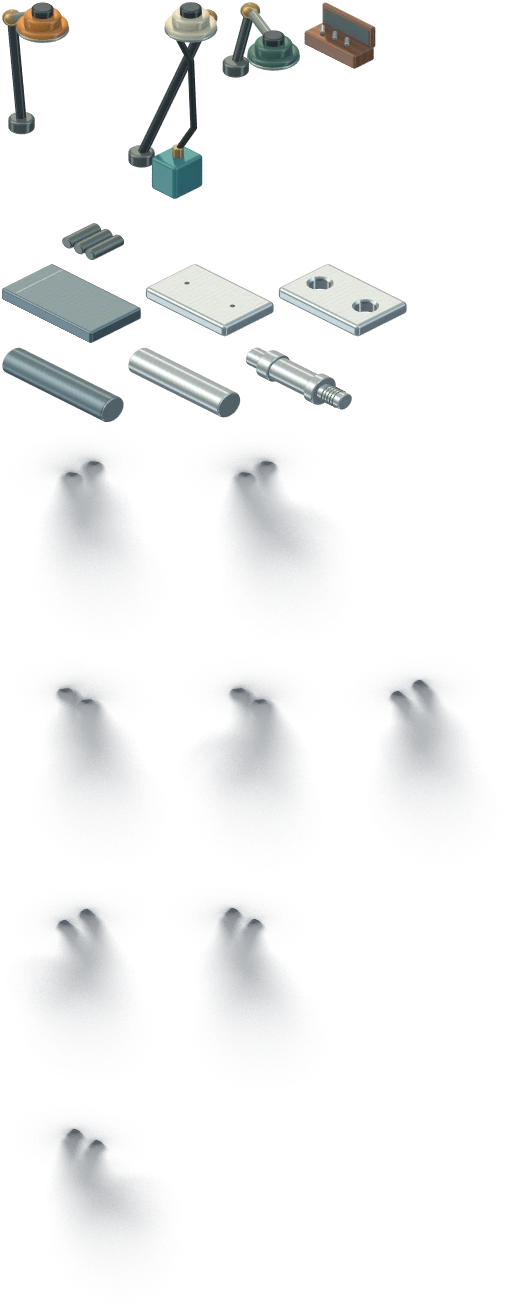
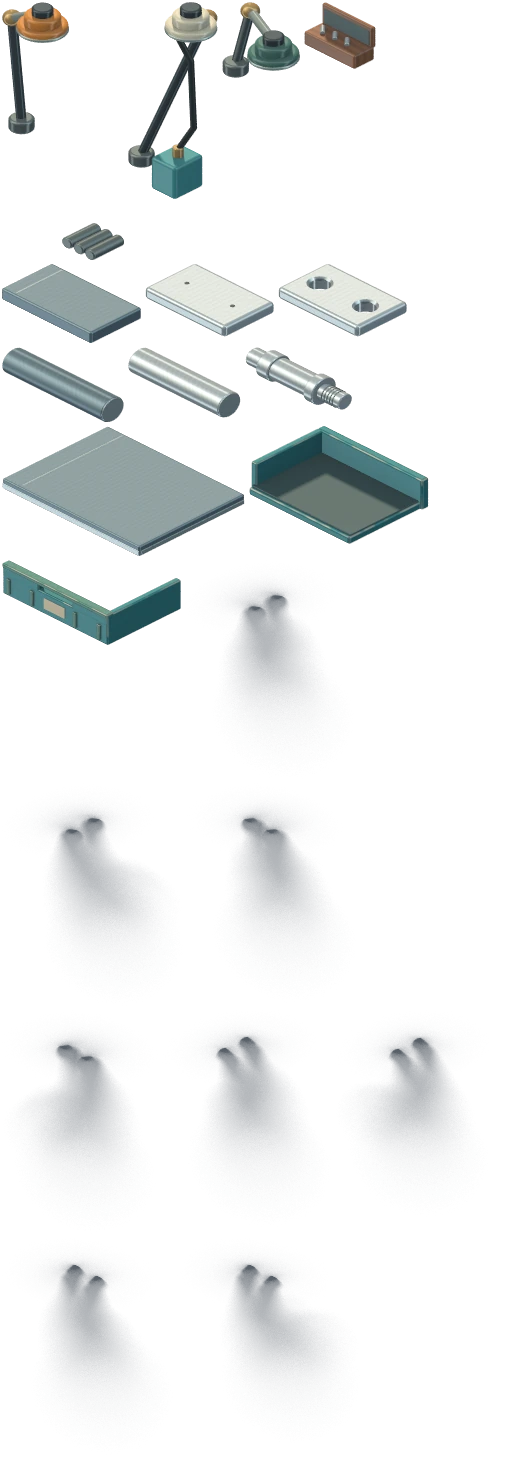
Match incoming mill scale and nest waiting parts inside modeled returnable totes

diff --git a/factory-prototype/art-source/station.py b/factory-prototype/art-source/station.py
@@ -36,6 +36,29 @@ def part(s,product,stage):
     for x in (.281,.291,.301,.311,.321):
         s.torus((x,.07,.046),(1,0,0),.026,.002,'iron')
 
+def containers(s,key):
+    b=s.box
+    if key=='raw-layer':
+        # Mill scale remains on the faces; sheared edges expose brighter metal.
+        b(.003,.004,0,.573,.441,.042,'millscale',.006)
+        b(.004,.440,.004,.57,.006,.019,'stock',.002)
+        b(.573,.008,.005,.005,.428,.017,'steel',.001)
+        b(.074,.016,.042,.003,.415,.001,'steel',0)
+        return
+    if key=='tote-back':
+        b(.008,.009,.008,.422,.315,.031,'press',.009)
+        b(.012,.015,.04,.414,.299,.005,'shade',.002)
+        b(0,0,.01,.44,.030,.125,'press',.008)
+        b(0,.025,.01,.022,.28,.124,'press',.005)
+        return
+    # Side mouths and front label hide just the lower portion of the contents.
+    b(.418,.024,.01,.022,.30,.123,'press',.006)
+    b(0,.307,.01,.44,.025,.089,'press',.006)
+    for x in (0,.290):b(x,.307,.085,.15,.025,.046,'press',.005)
+    b(0,.305,.120,.44,.031,.018,'cover',.006)
+    for x in (.022,.12,.30,.40):b(x,.332,.023,.014,.009,.063,'cover',.003)
+    b(.176,.333,.036,.087,.004,.043,'paper',.002)
+
 def station(s,kind):
     if kind=='inspect': # Its articulated green lamp already belongs to the bench.
         # Caliper case open, behind the measuring surface. Dark felt cradles the spare tools.
@@ -86,6 +109,10 @@ def build(work,dest,scene,render,pack,crew):
             s=scene();part(s,product,stage)
             im,world=render(s,work,key,185,120,268,63,41,0,8,10)
             entries.append((key,im,world))
+    for key in ('raw-layer','tote-back','tote-front'):
+        s=scene();containers(s,key)
+        im,world=render(s,work,key,310,205,239,128,41,0,8,8)
+        entries.append((key,im,world))
     for facing in range(4):
         for working in (0,1):
             key=f'shadow-{facing}-{working}';s=scene()
